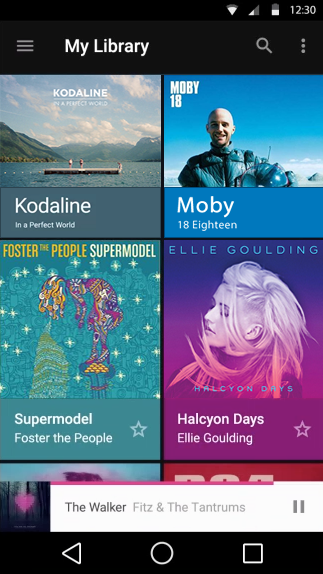
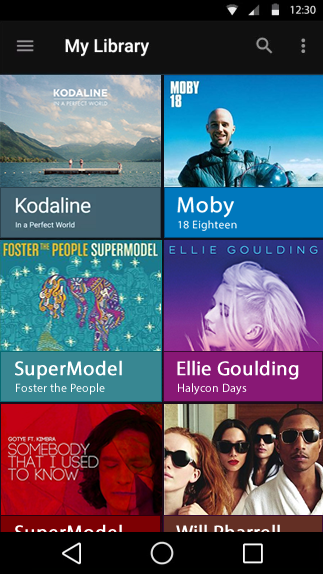
added 2 more tiles, animated nowPlaying div

diff --git a/src/assets/js/koda_4.js b/src/assets/js/koda_4.js
@@ -50,7 +50,7 @@
 
             // Perform animation via state change
             $scope.state        = "zoom";
-            $scope.selectedTile = updateBounds(selectedTile, $event);
+            $scope.selectedTile = selectedTile;
         }
 
         /**
@@ -68,24 +68,6 @@
         // ************************************************************
         // Image Features
         // ************************************************************
-
-        /**
-         * Update the tile bounds data based on current tile settings.
-         * The `tile.from` RECT is used by the animations...
-         *
-         * @param tile
-         * @param $event
-         * @returns {*}
-         */
-        function updateBounds(tile, $event) {
-            if ( $event && $event.currentTarget ) {
-                tile.from.left   = $event.currentTarget.offsetLeft + 1;
-                tile.from.top    = $event.currentTarget.offsetTop + 1;
-                tile.from.width  = $event.currentTarget.offsetWidth - 1;
-                tile.from.height = $event.currentTarget.offsetHeight - 1;
-            }
-            return tile;
-        }
 
         /**
          * Load all the full-size images in the background...
@@ -201,7 +183,12 @@
         var model = [
             {
                 className : "tile1",
-                from: {               },
+                from: {
+                    left:0,
+                    top: 74,
+                    width: 162,
+                    height: 164
+                },
                 to  : { height : 216  },
                 thumbSrc: "./assets/images/koda/thumb_kodaline_v3.png",
                 albumSrc: "./assets/images/koda/album_kodaline.png",
@@ -210,7 +197,12 @@
             },
             {
                 className : "tile2",
-                from: {               },
+                from: {
+                    left: 164,
+                    top: 74,
+                    width: 161,
+                    height: 164
+                },
                 to  : { height : 216  },
                 thumbSrc: "./assets/images/koda/thumb_moby_v3.png",
                 albumSrc : "./assets/images/koda/album_moby_v2.png",
@@ -219,7 +211,12 @@
             },
             {
                 className : "tile3",
-                from: {               },
+                from: {
+                    left:0,
+                    top: 240,
+                    width: 162,
+                    height: 162
+                },
                 to  : { height : 229  },
                 thumbSrc: "./assets/images/koda/thumb_supermodel.png",
                 albumSrc: "./assets/images/koda/album_supermodel.png",
@@ -229,7 +226,12 @@
             },
             {
                 className : "tile4",
-                from: {               },
+                from: {
+                    left: 164,
+                    top: 240,
+                    width: 162,
+                    height: 162
+                },
                 to  : { height : 229  },
                 thumbSrc: "./assets/images/koda/thumb_goulding.png",
                 albumSrc: "./assets/images/koda/album_goulding.png",
@@ -237,16 +239,36 @@
                 infoSrc : "./assets/images/koda/info_goulding.png"
             },
             {
-                from: {               },
+                className : "tile5",
+                from: {
+                    left:0,
+                    top: 404,
+                    width: 162,
+                    height: 162
+                },
                 to  : { height : 216  },
-                thumbSrc: "./assets/images/koda/thumb_kodaline_v3.png",
-                albumSrc: "./assets/images/koda/album_kodaline.png",
-                titleSrc : "./assets/images/koda/title_kodaline.png",
-                infoSrc : "./assets/images/koda/info_kodaline.png"
+                thumbSrc: "./assets/images/koda/thumb_goyte.png",
+                albumSrc: "./assets/images/koda/album_goyte.png",
+                titleSrc : "./assets/images/koda/title_goyte.png",
+                infoSrc : "./assets/images/koda/info_goyte_v2.png"
+            },
+            {
+                className : "tile6",
+                from: {
+                    left: 164,
+                    top: 404,
+                    width: 162,
+                    height: 162
+                },
+                to  : { height : 216  },
+                thumbSrc: "./assets/images/koda/thumb_pharrell.png",
+                albumSrc: "./assets/images/koda/album_pharrell.png",
+                titleSrc : "./assets/images/koda/title_pharrell.png",
+                infoSrc : "./assets/images/koda/info_pharrell.png"
             }
         ];
 
-        return CDNify(model);
+        return model;       //CDNify(model);
 
         /**
          * Replace localhost URLs with CDN URLs

diff --git a/src/assets/koda3.css b/src/assets/koda3.css
@@ -7,14 +7,15 @@ body {
 
 #stage {
     position: relative;
-    height: 634px;
+    height: 574px;
     width: 323px;
     z-index: 0;
     overflow: hidden;
     text-overflow: clip;
-    background-color: rgb(255, 255, 255,0);
+    background-color: #1A0B1A;
     background-size: 100% 100%;
     opacity:0;
+    border: 1px solid #1A0B1A;
 }
 
 #stage > div {
@@ -60,39 +61,57 @@ body {
 }
 
 #stage > div#tile1, #stage > div.tile1 {
+    left:0px;
     top: 74px;
     width: 162px;
     height: 164px;
-    background-image: url(http://solutionoptimist-bucket.s3.amazonaws.com/kodaline/thumb_kodaline_v3.png);
+    background-image: url(http://solutionoptimist-bucket.s3.amazonaws.com/kodaline/thumb_kodaline_v6.png);
     cursor: zoom-in;
 }
 
 #stage > div#tile2, #stage > div.tile2 {
-    left: 162px;
+    left: 164px;
     top: 74px;
     width: 161px;
     height: 164px;
-    background-image: url(http://solutionoptimist-bucket.s3.amazonaws.com/kodaline/thumb_moby_v3.png);
+    background-image: url(http://solutionoptimist-bucket.s3.amazonaws.com/kodaline/thumb_moby_v6.png);
     cursor: zoom-in;
 }
 
 #stage > div#tile3, #stage > div.tile3 {
-    top: 238px;
+    top: 240px;
     width: 162px;
-    height: 223px;
-    background-image: url(http://solutionoptimist-bucket.s3.amazonaws.com/kodaline/thumb_supermodel.png);
+    height: 162px;
+    background-image: url(http://solutionoptimist-bucket.s3.amazonaws.com/kodaline/thumb_supermodel_v6.png);
     cursor: zoom-in;
 }
 
 #stage > div#tile4, #stage > div.tile4 {
-    left: 162px;
-    top: 238px;
-    width: 161px;
-    height: 223px;
-    background-image: url(http://solutionoptimist-bucket.s3.amazonaws.com/kodaline/thumb_goulding.png);
+    left: 164px;
+    top: 240px;
+    width: 162px;
+    height: 162px;
+    background-image: url(http://solutionoptimist-bucket.s3.amazonaws.com/kodaline/thumb_goulding_v6.png);
     cursor: zoom-in;
 }
 
+
+#stage > div#tile4, #stage > div.tile5 {
+    top: 404px;
+    width: 162px;
+    height: 162px;
+    background-image: url(http://solutionoptimist-bucket.s3.amazonaws.com/kodaline/thumb_goyte_v7.png);
+    cursor: zoom-in;
+}
+
+#stage > div#tile6, #stage > div.tile6 {
+    left: 164px;
+    top: 404px;
+    width: 162px;
+    height: 162px;
+    background-image: url(http://solutionoptimist-bucket.s3.amazonaws.com/kodaline/thumb_pharrell_v7.png);
+    cursor: zoom-in;
+}
 
 #stage > div#details {
     top: 75px;
@@ -134,17 +153,19 @@ body {
 
 
 #stage > div#other {
-    top: 461px;
-    width: 323px;
-    height: 71px;
-    background-image: url(http://solutionoptimist-bucket.s3.amazonaws.com/kodaline/otherTiles.png);
+    left: 88px;
+    top: 481px;
+    width: 237px;
+    height: 51px;
+    background-image: url(http://solutionoptimist-bucket.s3.amazonaws.com/kodaline/otherTiles_v8.png);
 }
 
 #stage > div#footer {
     top: 532px;
-    width: 323px;
+    width: 332px;
     height: 42px;
-    background-image: url(http://solutionoptimist-bucket.s3.amazonaws.com/kodaline/footer.png);
+    z-index: 150;
+    background-image: url(http://solutionoptimist-bucket.s3.amazonaws.com/kodaline/footer_v4.png);
 }
 
 #stage > div#mask {

diff --git a/src/koda_4.html b/src/koda_4.html
@@ -15,11 +15,13 @@
     <gs-step target="#mask"         style="zIndex:-10;className:''"               duration="0.001"></gs-step>
     <gs-step target="#details"      style="zIndex:-11;className:''"               duration="0.001"></gs-step>
     <gs-step target="#green_status" style="zIndex:-13;className:''"               duration="0.001"></gs-step>
+    <gs-step target="#other"        style="top:481;left:88"                       duration="0.001"></gs-step>
     <gs-step target="#mask"         style="zIndex:90"                             duration="0.001"></gs-step>
-    <gs-step target="#details"      style="zIndex:92; opacity:0.01; left:{{selectedTile.from.left}}; top:{{selectedTile.from.top}}; width:{{selectedTile.from.width}}; height:{{selectedTile.from.height}}"  duration="0.01"></gs-step>
+    <gs-step target="#details"      style="zIndex:92; opacity:0.01; left:{{selectedTile.from.left}}; top:{{selectedTile.from.top-1}}; width:{{selectedTile.from.width}}; height:{{selectedTile.from.height}}"  duration="0.01"></gs-step>
     <gs-step target="#details"      style="opacity:1.0"                           duration="0.3"></gs-step>
     <gs-step mark-position="fullThumb"></gs-step>
-    <gs-step target="#details"      style="delay:0.2; left:0; height:{{selectedTile.to.height}}; width:329" duration="0.5" ></gs-step>
+    <gs-step target="#other"        style="top:532;left:324" duration="0.2" ></gs-step>
+    <gs-step target="#details"      style="delay:0.05; left:0; height:{{selectedTile.to.height}}; width:329" duration="0.5" ></gs-step>
     <gs-step mark-position="fullWidth"></gs-step>
     <gs-step target="#mask"         style="opacity:0.80"                          duration="0.5"   position="fullWidth-=0.3"></gs-step>
     <gs-step target="#details"      style="opacity:1; top:18; height:512"         duration="0.3"   position="fullWidth+=0.1"></gs-step>
@@ -40,7 +42,7 @@
 
     <div ng-repeat="tile in allTiles"
          class="{{tile.className}}"
-         ng-click="showDetails(tile, $event)" >
+         ng-click="showDetails(tile)" >
     </div>
 
     <div id="other"></div>

diff --git a/src/assets/js/koda_3.js b/src/assets/js/koda_3.js
@@ -265,6 +265,34 @@
                 albumSrc: "./assets/images/koda/album_kodaline.png",
                 titleSrc : "./assets/images/koda/title_kodaline.png",
                 infoSrc : "./assets/images/koda/info_kodaline.png"
+            },
+            {
+                className : "tile5",
+                from: {
+                    left:0,
+                    top: 404,
+                    width: 162,
+                    height: 162
+                },
+                to  : { height : 216  },
+                thumbSrc: "./assets/images/koda/thumb_goyte.png",
+                albumSrc: "./assets/images/koda/album_goyte.png",
+                titleSrc : "./assets/images/koda/title_goyte.png",
+                infoSrc : "./assets/images/koda/info_goyte_v2.png"
+            },
+            {
+                className : "tile6",
+                from: {
+                    left: 164,
+                    top: 404,
+                    width: 162,
+                    height: 162
+                },
+                to  : { height : 216  },
+                thumbSrc: "./assets/images/koda/thumb_pharrell.png",
+                albumSrc: "./assets/images/koda/album_pharrell.png",
+                titleSrc : "./assets/images/koda/title_pharrell.png",
+                infoSrc : "./assets/images/koda/info_pharrell.png"
             }
         ];
 

diff --git a/src/koda_3.html b/src/koda_3.html
@@ -16,7 +16,7 @@
         <gs-step target="#details"      style="zIndex:-11;className:''"               duration="0.001"></gs-step>
         <gs-step target="#green_status" style="zIndex:-13;className:''"               duration="0.001"></gs-step>
         <gs-step target="#mask"         style="zIndex:90"                             duration="0.001"></gs-step>
-        <gs-step target="#details"      style="zIndex:92; opacity:0.01; left:{{selectedTile.from.left}}; top:{{selectedTile.from.top}}; width:{{selectedTile.from.width}}; height:{{selectedTile.from.height}}"  duration="0.01"></gs-step>
+        <gs-step target="#details"      style="zIndex:92; opacity:0.01; left:{{selectedTile.from.left}}; top:{{selectedTile.from.top-1}}; width:{{selectedTile.from.width}}; height:{{selectedTile.from.height}}"  duration="0.01"></gs-step>
         <gs-step target="#details"      style="opacity:1.0"                           duration="0.3"></gs-step>
         <gs-step mark-position="fullThumb"></gs-step>
         <gs-step target="#details"      style="delay:0.2; left:0; height:{{selectedTile.to.height}}; width:329" duration="0.5" ></gs-step>
